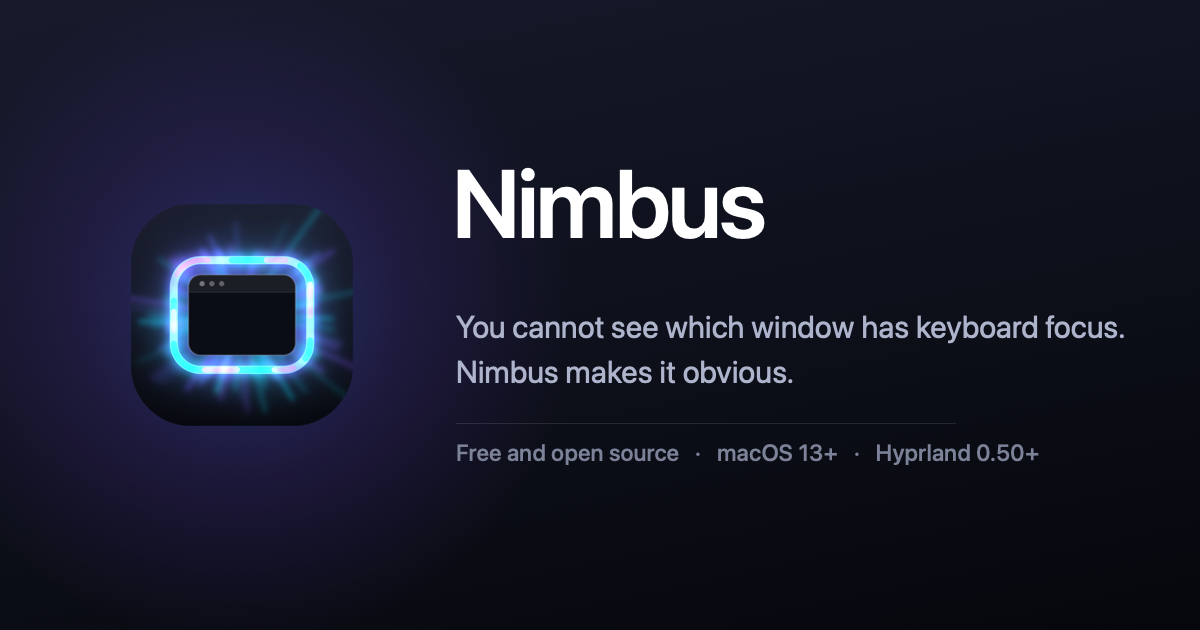
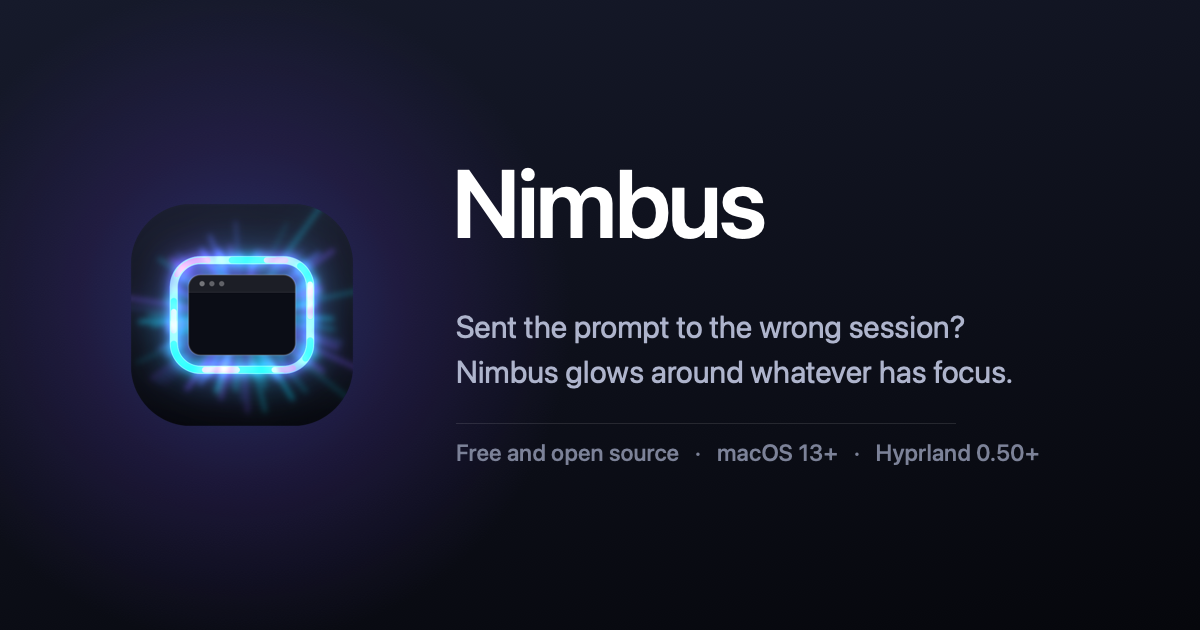
Lead the card with the loss, not the absence
"You cannot see which window has keyboard focus" opened on a negative
and described a missing capability rather than a consequence. It now
asks the question the reader has already lived: sent the prompt to the
wrong session? That is the version of this people meet daily now, with
several agents and terminals open at once, and it earns the line about
the glow that follows it.

Changed region(s): [[0.37, 0.4825, 0.9558, 0.5429], [0.4625, 0.573, 0.8325, 0.6333]]

diff --git a/Tools/make-og.swift b/Tools/make-og.swift
@@ -31,7 +31,10 @@ let (subtitle, footerText): (String, String) = {
         return ("macOS hides which window has keyboard focus.\nNimbus makes it obvious.",
                 "Free and open source   ·   Apple Silicon and Intel   ·   macOS 13+")
     default:
-        return ("You cannot see which window has keyboard focus.\nNimbus makes it obvious.",
+        // Names the loss before the fix. "Wrong session" rather than "wrong
+        // window" because that is the version of this people meet daily now,
+        // with several agents and terminals open at once.
+        return ("Sent the prompt to the wrong session?\nNimbus glows around whatever has focus.",
                 "Free and open source   ·   macOS 13+   ·   Hyprland 0.50+")
     }
 }()
